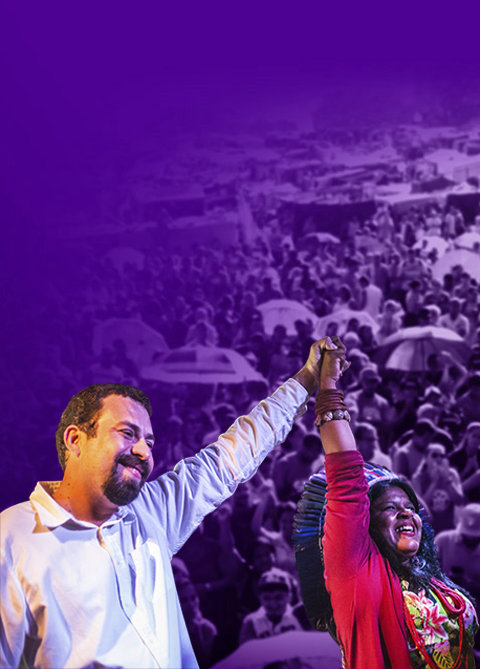
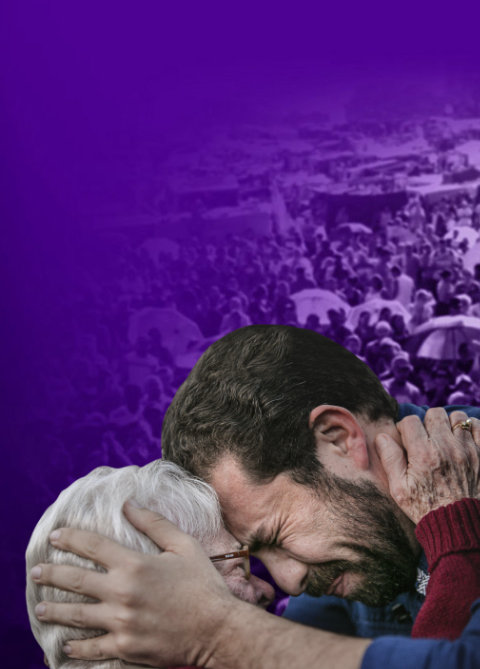
Update images

diff --git a/src/stylesheets/layout/_header.scss b/src/stylesheets/layout/_header.scss
@@ -7,29 +7,29 @@
   color: palette('white');
 
   background-image: url('../assets/images/backgrounds/capa-fundo-very-small.jpg');
-  background-position: left bottom;
+  background-position: right bottom;
   background-size: 100% auto;
   background-color: palette('gray', 'dark');
 
   @media screen and (min-width: breakpoint('phablet')) {
     min-height: 620px;
 
-    background-image: url('../assets/images/backgrounds/capa-boulos_sonia-small.png'), url('../assets/images/backgrounds/capa-fundo-small.jpg');
-    background-position: left bottom, 0 0;
+    background-image: url('../assets/images/backgrounds/capa-boulos-small.png'), url('../assets/images/backgrounds/capa-fundo-small.jpg');
+    background-position: right bottom, 0 0;
     background-size: 550px auto, cover;
   }
 
   @media screen and (min-width: breakpoint('tablet')) {
-    background-image: url('../assets/images/backgrounds/capa-boulos_sonia-medium.png'), url('../assets/images/backgrounds/capa-fundo-medium.jpg');
-    background-position: left bottom, 0 0;
+    background-image: url('../assets/images/backgrounds/capa-boulos-medium.png'), url('../assets/images/backgrounds/capa-fundo-medium.jpg');
+    background-position: right bottom, 0 0;
     background-size: 680px auto, cover;
   }
 
   @media screen and (min-width: breakpoint('desktop')) {
     min-height: 680px;
 
-    background-image: url('../assets/images/backgrounds/capa-boulos_sonia.png'), url('../assets/images/backgrounds/capa-fundo.jpg');
-    background-position: left bottom, 0 0;
+    background-image: url('../assets/images/backgrounds/capa-boulos.png'), url('../assets/images/backgrounds/capa-fundo.jpg');
+    background-position: right bottom, 0 0;
     background-size: 750px auto, cover;
   }
 }

diff --git a/src/stylesheets/pages/_home.scss b/src/stylesheets/pages/_home.scss
@@ -280,7 +280,7 @@ $max-section-width: 50rem;
   }
 
   @media screen and (min-width: 1280px) {
-    background-image: url('../assets/images/backgrounds/img-saibamais--1280w-bou.jpg'), url('../assets/images/backgrounds/img-saibamais--1280w-son.jpg');
+    background-image: url('../assets/images/backgrounds/img-saibamais--1280w-bou.jpg'), url('../assets/images/backgrounds/img-saibamais--1280w-eru.jpg');
     background-position: left bottom, right bottom;
 
     &[class] {
